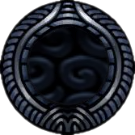
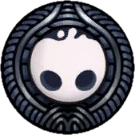
1.0.2.2

diff --git a/Exaltation.cs b/Exaltation.cs
@@ -48,6 +48,11 @@ namespace Exaltation
 		private const float NAILSAGE_SOUL_WAIT = 0.75f;
 		private const int NAILSAGE_SOUL_REGEN = 4;
 
+		private const int KINGSMOULD_CARAPACE_BASE_SOUL = 33;
+		private const float KINGSMOULD_REGEN_WAIT = 0.33f;
+		private int KingsmouldCarapaceSoulCost = KINGSMOULD_CARAPACE_BASE_SOUL;
+		private float KingsmouldCarapaceTimer = 0f;
+
 		private bool WyrmfuryDeathProtection = true;
 		private GameObject CanvasObject;
 		private GameObject TextCanvas; //use a different canvas for text since it's handled differently
@@ -61,6 +66,7 @@ namespace Exaltation
 		private static FieldInfo GeoControlSize = typeof(GeoControl).GetField("size", BindingFlags.NonPublic | BindingFlags.Instance);
 		private static MethodInfo ClinkClink = typeof(GeoControl).GetMethod("PlayCollectSound", BindingFlags.NonPublic | BindingFlags.Instance);
 		private static readonly FieldInfo SpriteField = typeof(HeroController).GetField("spriteFlash", BindingFlags.Instance | BindingFlags.NonPublic);
+		private static FieldInfo ShadowDashCD = typeof(HeroController).GetField("shadowDashTimer", BindingFlags.NonPublic | BindingFlags.Instance);
 
 		private int[] CharmNums = new int[] { 1, 2, 3, 4, 5, 6, 7, 8, 9, 12, 14, 16, 19, 20, 21, 26, 27, 29, 31, 32, 33, 35, 37 }; //the charm numbers that can be glorified go here for sprites and the like
 
@@ -68,11 +74,12 @@ namespace Exaltation
 		{
 			MakeCanvas();
 			GameManager.instance.StartCoroutine(ChangeSprites());
+			float timer = Time.deltaTime;
 			if (WearingGlorifiedCharm("FuryOfTheFallen"))
 				UpdateWyrmfuryIcon();
 			if (WearingGlorifiedCharm("BaldurShell") && PlayerData.instance.blockerHits < 4)
 			{
-				StoneshellRegenTime -= Time.deltaTime;
+				StoneshellRegenTime -= timer;
 				if (StoneshellRegenTime <= 0)
 				{
 					StoneshellRegenTime = STONESHELL_REGEN_WAIT;
@@ -80,6 +87,15 @@ namespace Exaltation
 					HeroController.instance.GetAttr<AudioSource>("audioSource")
 						.PlayOneShot(LoadAssets.BlockerSound, 1f);
 					((SpriteFlash)SpriteField.GetValue(HeroController.instance)).flash(Color.blue, 0.5f, 0.0f, 0.0f, 0.5f);
+				}
+			}
+			if (WearingGlorifiedCharm("StalwartShell") && KingsmouldCarapaceSoulCost > KINGSMOULD_CARAPACE_BASE_SOUL)
+			{
+				KingsmouldCarapaceTimer -= timer;
+				if (KingsmouldCarapaceTimer <= 0)
+				{
+					KingsmouldCarapaceSoulCost--;
+					KingsmouldCarapaceTimer = KINGSMOULD_REGEN_WAIT;
 				}
 			}
 			/*if (Input.GetKeyDown(KeyCode.H)) // Uncomment this for debug purposes.
@@ -163,7 +179,7 @@ namespace Exaltation
 					return "Kingsmould Carapace";
 				else if(key == "CHARM_DESC_4")
 					return "White metal vessel used to shape and harness void material.\n\n" +
-						"The bearer will remain invulnerable for longer when recovering from damage. Additionally, their SOUL will be used to lower the damage of overwhelming strikes against them.";
+						"The bearer will remain invulnerable for longer when recovering from damage. Additionally, their SOUL will be used, in increasing amounts, to lower the damage of overwhelming strikes against them.";
 			}
 			if (IsGlorified("BaldurShell"))
 			{
@@ -213,15 +229,15 @@ namespace Exaltation
 				if (key == "CHARM_NAME_12")
 					return "Palace Rose";
 				else if (key == "CHARM_DESC_12")
-					return "Hardy, colorless rose taken from the White Palace. Bristles with menacing thorns.\n\n" +
+					return "Hardy, colorless rose grown in the White Palace. Bristles with menacing thorns.\n\n" +
 						"When taking damage, sprout mystical vines that greatly damage nearby foes.";
 			}
 			if (IsGlorified("SteadyBody"))
 			{
 				if (key == "CHARM_NAME_14")
-					return "White Sprig";
+					return "Garden Sprig";
 				else if (key == "CHARM_DESC_14")
-					return "A branch of bark, taken from a pale root in the Queen's Gardens.\n\n" +
+					return "Strip of plant material taken from the Queen's Gardens.\n\n" +
 						"Keeps its bearer from recoiling backwards when they strike an enemy with a nail.\n\n" +
 						"Requires no charm notches.";
 			}
@@ -230,15 +246,15 @@ namespace Exaltation
 				if (key == "CHARM_NAME_16")
 					return "Razor Shadow";
 				else if (key == "CHARM_DESC_16")
-					return "Contains a whispering, eldritch spell that sharpens shadows into weapons.\n\n" +
-						"When using Shadow Dash, the bearer's body will cut through enemies like silk, and remains incorporeal for a short time afterwards.";
+					return "Contains a whispering, eldritch spell that sharpens shadows into vicious weapons.\n\n" +
+						"When using Shadow Dash, the bearer's body will cut through enemies like silk, and remain incorporeal for a short time afterwards.";
 			}
 			if (IsGlorified("ShamanStone"))
 			{
 				if(key == "CHARM_NAME_19")
-					return "Esoteric Egg";
+					return "Shaman Relic";
 				else if(key == "CHARM_DESC_19")
-					return "Mysterious stone egg from before the birth of Hallownest. Its shell has been peeled away, revealing the power contained within.\n\n" +
+					return "Carved relic from within the Ancestral Mound. Said to contain the minds of past generations of shamans.\n\n" +
 						"Greatly increases the power of spells, dealing much more damage to foes.";
 			}
 			if (IsGlorified("SoulCatcher"))
@@ -272,9 +288,9 @@ namespace Exaltation
 			if (IsGlorified("JonisBlessing"))
 			{
 				if (key == "CHARM_NAME_27")
-					return "Ancestral Blessing";
+					return "Joni's Benediction";
 				else if (key == "CHARM_DESC_27")
-					return "Object of worship by the shamans. Transmogrifies vital fluids into blue lifeblood.\n\n" +
+					return "Revered by Joni, the kindly heretic. Transmogrifies vital fluids into blue lifeblood.\n\n" +
 						"The bearer will have a healthier shell and can take much more damage, but they will not be able to heal themselves by focusing SOUL.";
 			}
 			if (IsGlorified("Hiveblood"))
@@ -288,7 +304,7 @@ namespace Exaltation
 			if (IsGlorified("Dashmaster"))	
 			{
 				if(key == "CHARM_NAME_31")
-					return "Racemaster";
+					return "Marathon Master";
 				else if(key == "CHARM_DESC_31")
 					return "Bears the likeness of an eccentric bug known only as ‘The Dashmaster', in true form.\n\n" +
 						"The bearer will be able to dash more often as well as dash downwards.";
@@ -298,7 +314,7 @@ namespace Exaltation
 				if (key == "CHARM_NAME_32")
 					return "Steel Tempest";
 				else if (key == "CHARM_DESC_32")
-					return "A bladed disc forged from the metal of imperfect nails. Emits a whistling sound when thrust through the air.\n\n" +
+					return "Bladed disc forged from pale ore. Emits a whistling sound when moving through the air.\n\n" +
 						"The bearer's nail will become like a storm of metal, moderately decreasing its damage but tremendously increasing its swinging speed.";
 			}
 			if (IsGlorified("SpellTwister"))
@@ -345,6 +361,7 @@ namespace Exaltation
 		{
 			GameManager.instance.StartCoroutine(ChangeSprites());
 		}
+
 		private void ProcessGeoUpdate(On.GeoControl.orig_OnEnable orig, GeoControl self)
 		{
 			orig(self);
@@ -444,20 +461,23 @@ namespace Exaltation
 			PlayerData pd = PlayerData.instance;
 			if(pd.maxHealth <= amount) //only protect from damage if we aren't at max health; mainly for radiant bosses
 				return amount;
-			if(amount >= 2 && pd.MPCharge >= 33 && WearingGlorifiedCharm("StalwartShell"))
+			if(amount >= 2 && pd.MPCharge >= KingsmouldCarapaceSoulCost && WearingGlorifiedCharm("StalwartShell"))
 			{
 				amount--; // reduces high damage by 1 mask!
-				HeroController.instance.TakeMP(33);
+				HeroController.instance.TakeMP(KingsmouldCarapaceSoulCost);
 				HeroController.instance.GetAttr<AudioSource>("audioSource")
 					.PlayOneShot(LoadAssets.ShellSound, 1f);
+				KingsmouldCarapaceSoulCost *= 2;
+				if (KingsmouldCarapaceSoulCost > 100)
+					KingsmouldCarapaceSoulCost = 100;
 			}
-			if(pd.health <= amount && WyrmfuryDeathProtection && WearingGlorifiedCharm("FuryOfTheFallen"))
+			if(pd.health <= amount && amount > 0 && WyrmfuryDeathProtection && WearingGlorifiedCharm("FuryOfTheFallen"))
 			{
 				amount = pd.health - 1; //brings to 1 HP if you're not there already
 				WyrmfuryDeathProtection = false; //nullify the hit!
 				HeroController.instance.GetAttr<AudioSource>("audioSource")
 					.PlayOneShot(LoadAssets.WyrmfurySound, 1f);
-				GameCameras.instance.cameraShakeFSM.SendEvent("AverageShake");
+				GameCameras.instance.cameraShakeFSM.SendEvent("BigShake");
 			}
 			StoneshellRegenTime = STONESHELL_REGEN_WAIT; //prevent the hit from regenerating
 			return amount;
@@ -512,11 +532,14 @@ namespace Exaltation
 
 		private HitInstance HitInstanceAdjust(Fsm owner, HitInstance hit)
 		{
-			string ParentName = hit.Source.transform.parent.name; //note - for many attacks this will be null; be careful
-			if (ParentName != null && ParentName == "Thorn Hit" && IsGlorified("ThornsOfAgony"))
+			if (hit.Source.transform != null)
 			{
-				hit.DamageDealt = (int)(hit.DamageDealt * 1.5);
-				hit.AttackType = AttackTypes.Spell; //palace rose thorns are spell-type instead of normal-type
+				string ParentName = hit.Source.transform.parent.name; //note - for many attacks this will be null; be careful
+				if (ParentName != null && ParentName == "Thorn Hit" && IsGlorified("ThornsOfAgony"))
+				{
+					hit.DamageDealt = (int)(hit.DamageDealt * 1.5);
+					hit.AttackType = AttackTypes.Spell; //palace rose thorns are spell-type instead of normal-type
+				}
 			}
 			if (hit.AttackType == AttackTypes.Spell)
 			{
@@ -545,9 +568,7 @@ namespace Exaltation
 						hit.DamageDealt += (int)(hit.DamageDealt * 0.03f * (PlayerData.instance.maxHealth - PlayerData.instance.health));
 			}
 			if (hit.AttackType == AttackTypes.SharpShadow && WearingGlorifiedCharm("SharpShadow"))
-			{
 				hit.DamageDealt *= 2;
-			}
 			return hit;
 		}
 
@@ -559,10 +580,11 @@ namespace Exaltation
 					yield return null;
 				PlayerData.instance.isInvincible = true;
 				((SpriteFlash)SpriteField.GetValue(HeroController.instance)).flash(Color.black, 1.11f, 0.1f, 0.8f, 0.2f);
-				yield return new WaitForSeconds(0.8f);
+				yield return new WaitForSeconds(0.6f);
 				PlayerData.instance.isInvincible = false;
 			}
-			if(WearingGlorifiedCharm("SharpShadow"))
+			float cooldown = (float)ShadowDashCD.GetValue(HeroController.instance);
+			if (WearingGlorifiedCharm("SharpShadow") && cooldown <= 0)
 				HeroController.instance.StartCoroutine(RazorShadow());
 			return false;
 		}

diff --git a/Properties/AssemblyInfo.cs b/Properties/AssemblyInfo.cs
@@ -32,5 +32,5 @@ using System.Runtime.InteropServices;
 // You can specify all the values or you can default the Build and Revision Numbers
 // by using the '*' as shown below:
 // [assembly: AssemblyVersion("1.0.*")]
-[assembly: AssemblyVersion("1.0.2.1")]
-[assembly: AssemblyFileVersion("1.0.2.1")]
+[assembly: AssemblyVersion("1.0.2.2")]
+[assembly: AssemblyFileVersion("1.0.2.2")]

diff --git a/CHARM_LIST.md b/CHARM_LIST.md
@@ -63,7 +63,7 @@ Increases lifeblood masks by six, instead of four.
 
 Deals 2.5x nail damage instead of 2x, and deals spell damage instead of generic damage.
 
-## Steady Body -> White Sprig
+## Steady Body -> Garden Sprig
 
 ![Sprig](https://github.com/Xhuis/Exaltation/blob/master/Resources/Charms/14.png?raw=true)
 
@@ -76,11 +76,10 @@ Costs no notches.
 Dash damage is increased to 2x nail damage.
 Gain 0.8 seconds of extended invulnerability after the shade dash finishes.
 
-## Shaman Stone -> Esoteric Egg
+## Shaman Stone -> Shaman Relic
 
 ![Egg](https://github.com/Xhuis/Exaltation/blob/master/Resources/Charms/19.png?raw=true)
 
-~~Lemm eats ten of these.~~
 Increases spell damage by an additional 12.5%.
 
 ## Soul Catcher -> Soul Snare
@@ -105,7 +104,7 @@ Sagesoul causes nail hits to gain no SOUL and deal spell damage instead of nail 
 
 Nailsage's Tenacity increases nail damage by 3% per mask of missing health.
 
-## Joni's Blessing -> Ancestral Blessing
+## Joni's Blessing -> Joni's Benediction
 
 ![Joni](https://github.com/Xhuis/Exaltation/blob/master/Resources/Charms/27.png?raw=true)
 
@@ -117,7 +116,7 @@ Provides four additional lifeblood masks.
 
 Costs three notches instead of four, and regenerates health twice as fast.
 
-## Dashmaster -> Racemaster
+## Dashmaster -> Marathon Master
 
 ![DM](https://github.com/Xhuis/Exaltation/blob/master/Resources/Charms/31.png?raw=true)
 

diff --git a/CHANGELOG.md b/CHANGELOG.md
@@ -2,6 +2,16 @@
 
 Entries here are sorted in descending order depending on age; oldest entries will be the farthest down.
 
+## v1.0.2.2
+
+* White Sprig is now Garden Sprig, and has a new sprite.
+* Esoteric Egg is now Shaman Relic, and has a new sprite.
+* Ancestral Blessing is now Joni's Benediction.
+* Racemaster is now Marathon Master.
+* Kingsmould Carapace's required SOUL to absorb damage is now doubled each time it absorbs damage, and decays at a rate of 3 per second.
+* Razor Shadow now provides 0.6 seconds of extended invulnerability instead of 0.8 seconds.
+* Fixed Razor Shadow granting extended invulnerability in all dashes instead of shade.
+
 ## v1.0.2.1
 
 * Swift Focus no longer decreases focus cost, and instead greatly increases focus speed.
